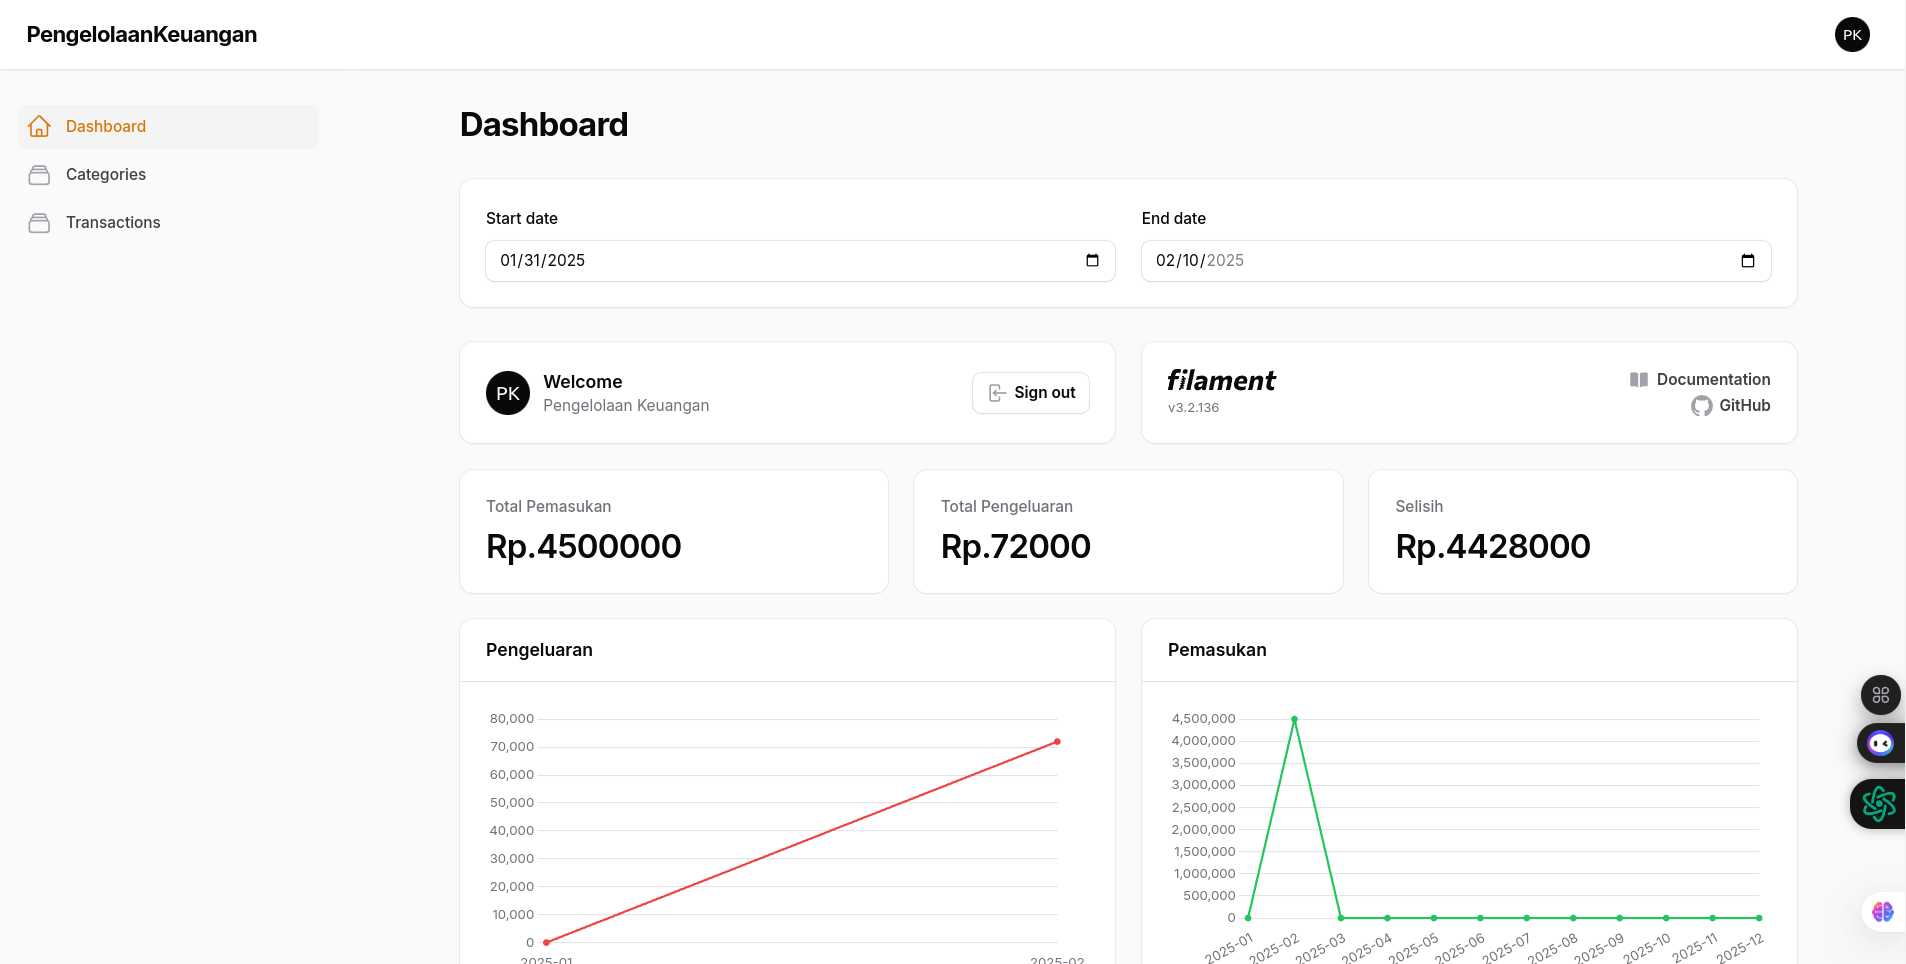
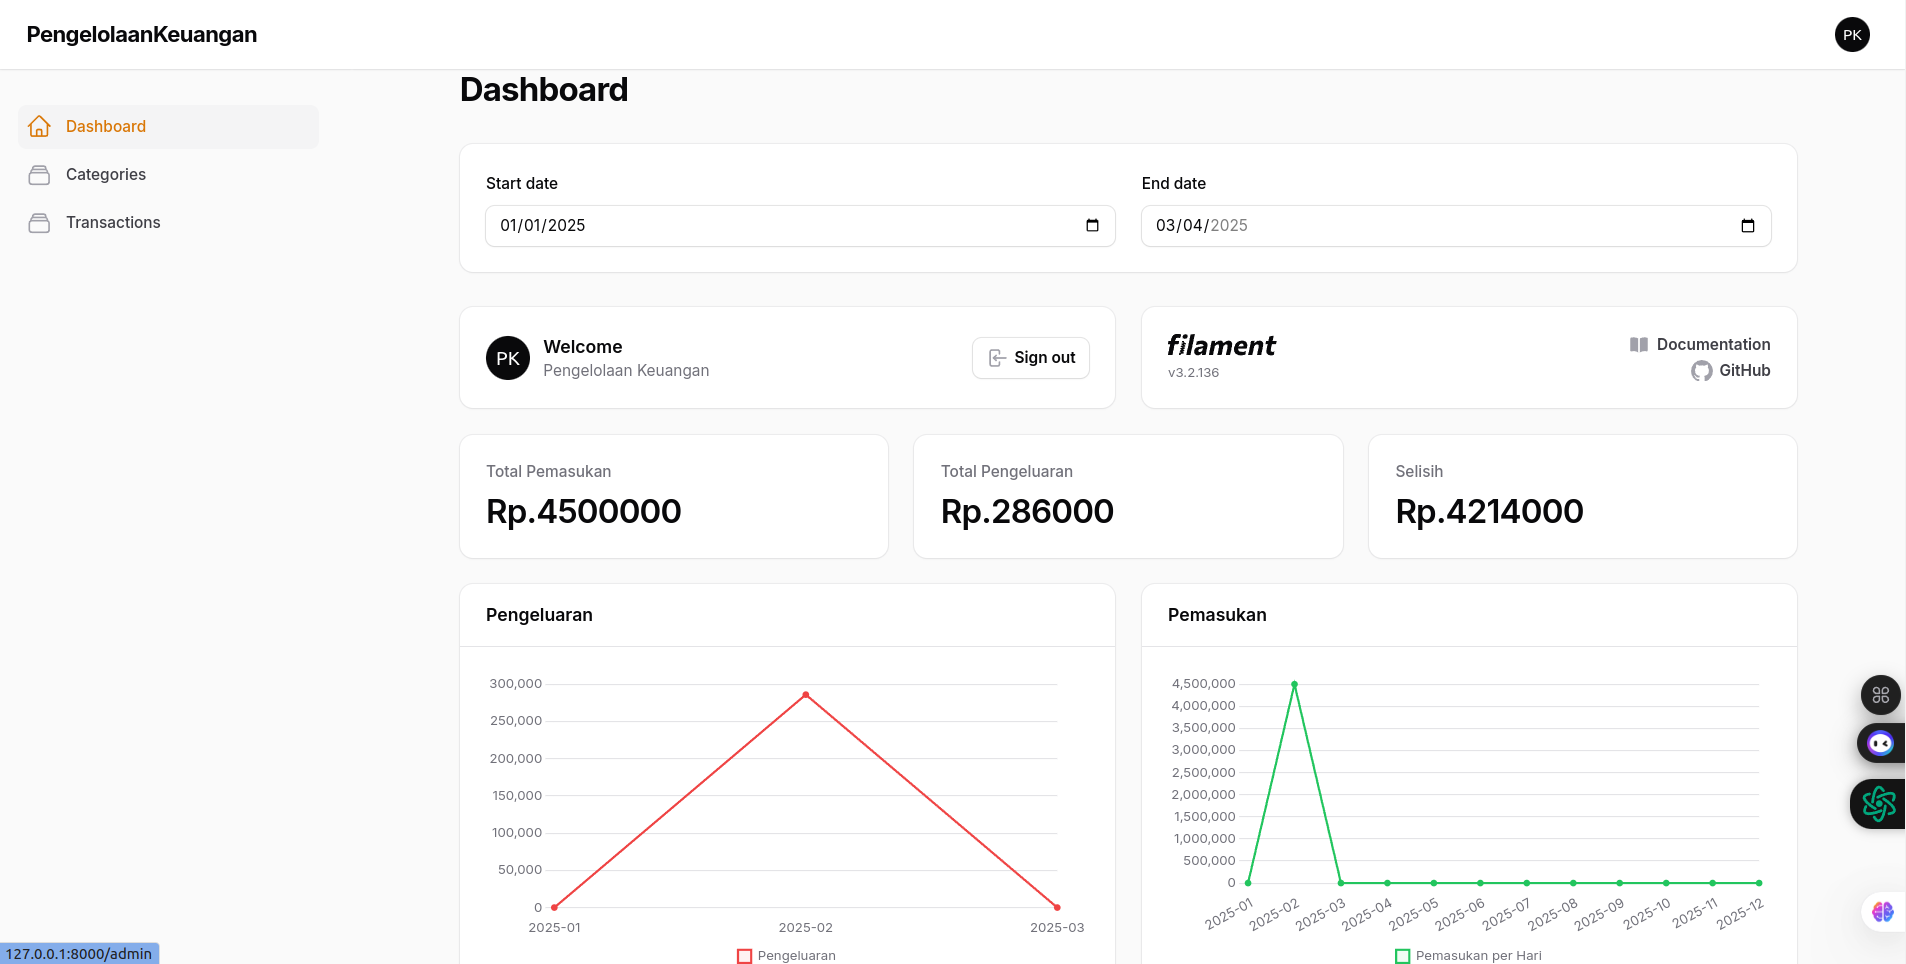
menambahkan gambar

diff --git a/app/Filament/Widgets/WidgetExpenseChart.php b/app/Filament/Widgets/WidgetExpenseChart.php
@@ -38,7 +38,7 @@ class WidgetExpenseChart extends ChartWidget
         return [
             'datasets' => [
                 [
-                    'label' => 'Pengeluaran per Hari',
+                    'label' => 'Pengeluaran',
                     'data' => $data->map(fn (TrendValue $value) => $value->aggregate),
                 ],
             ],
